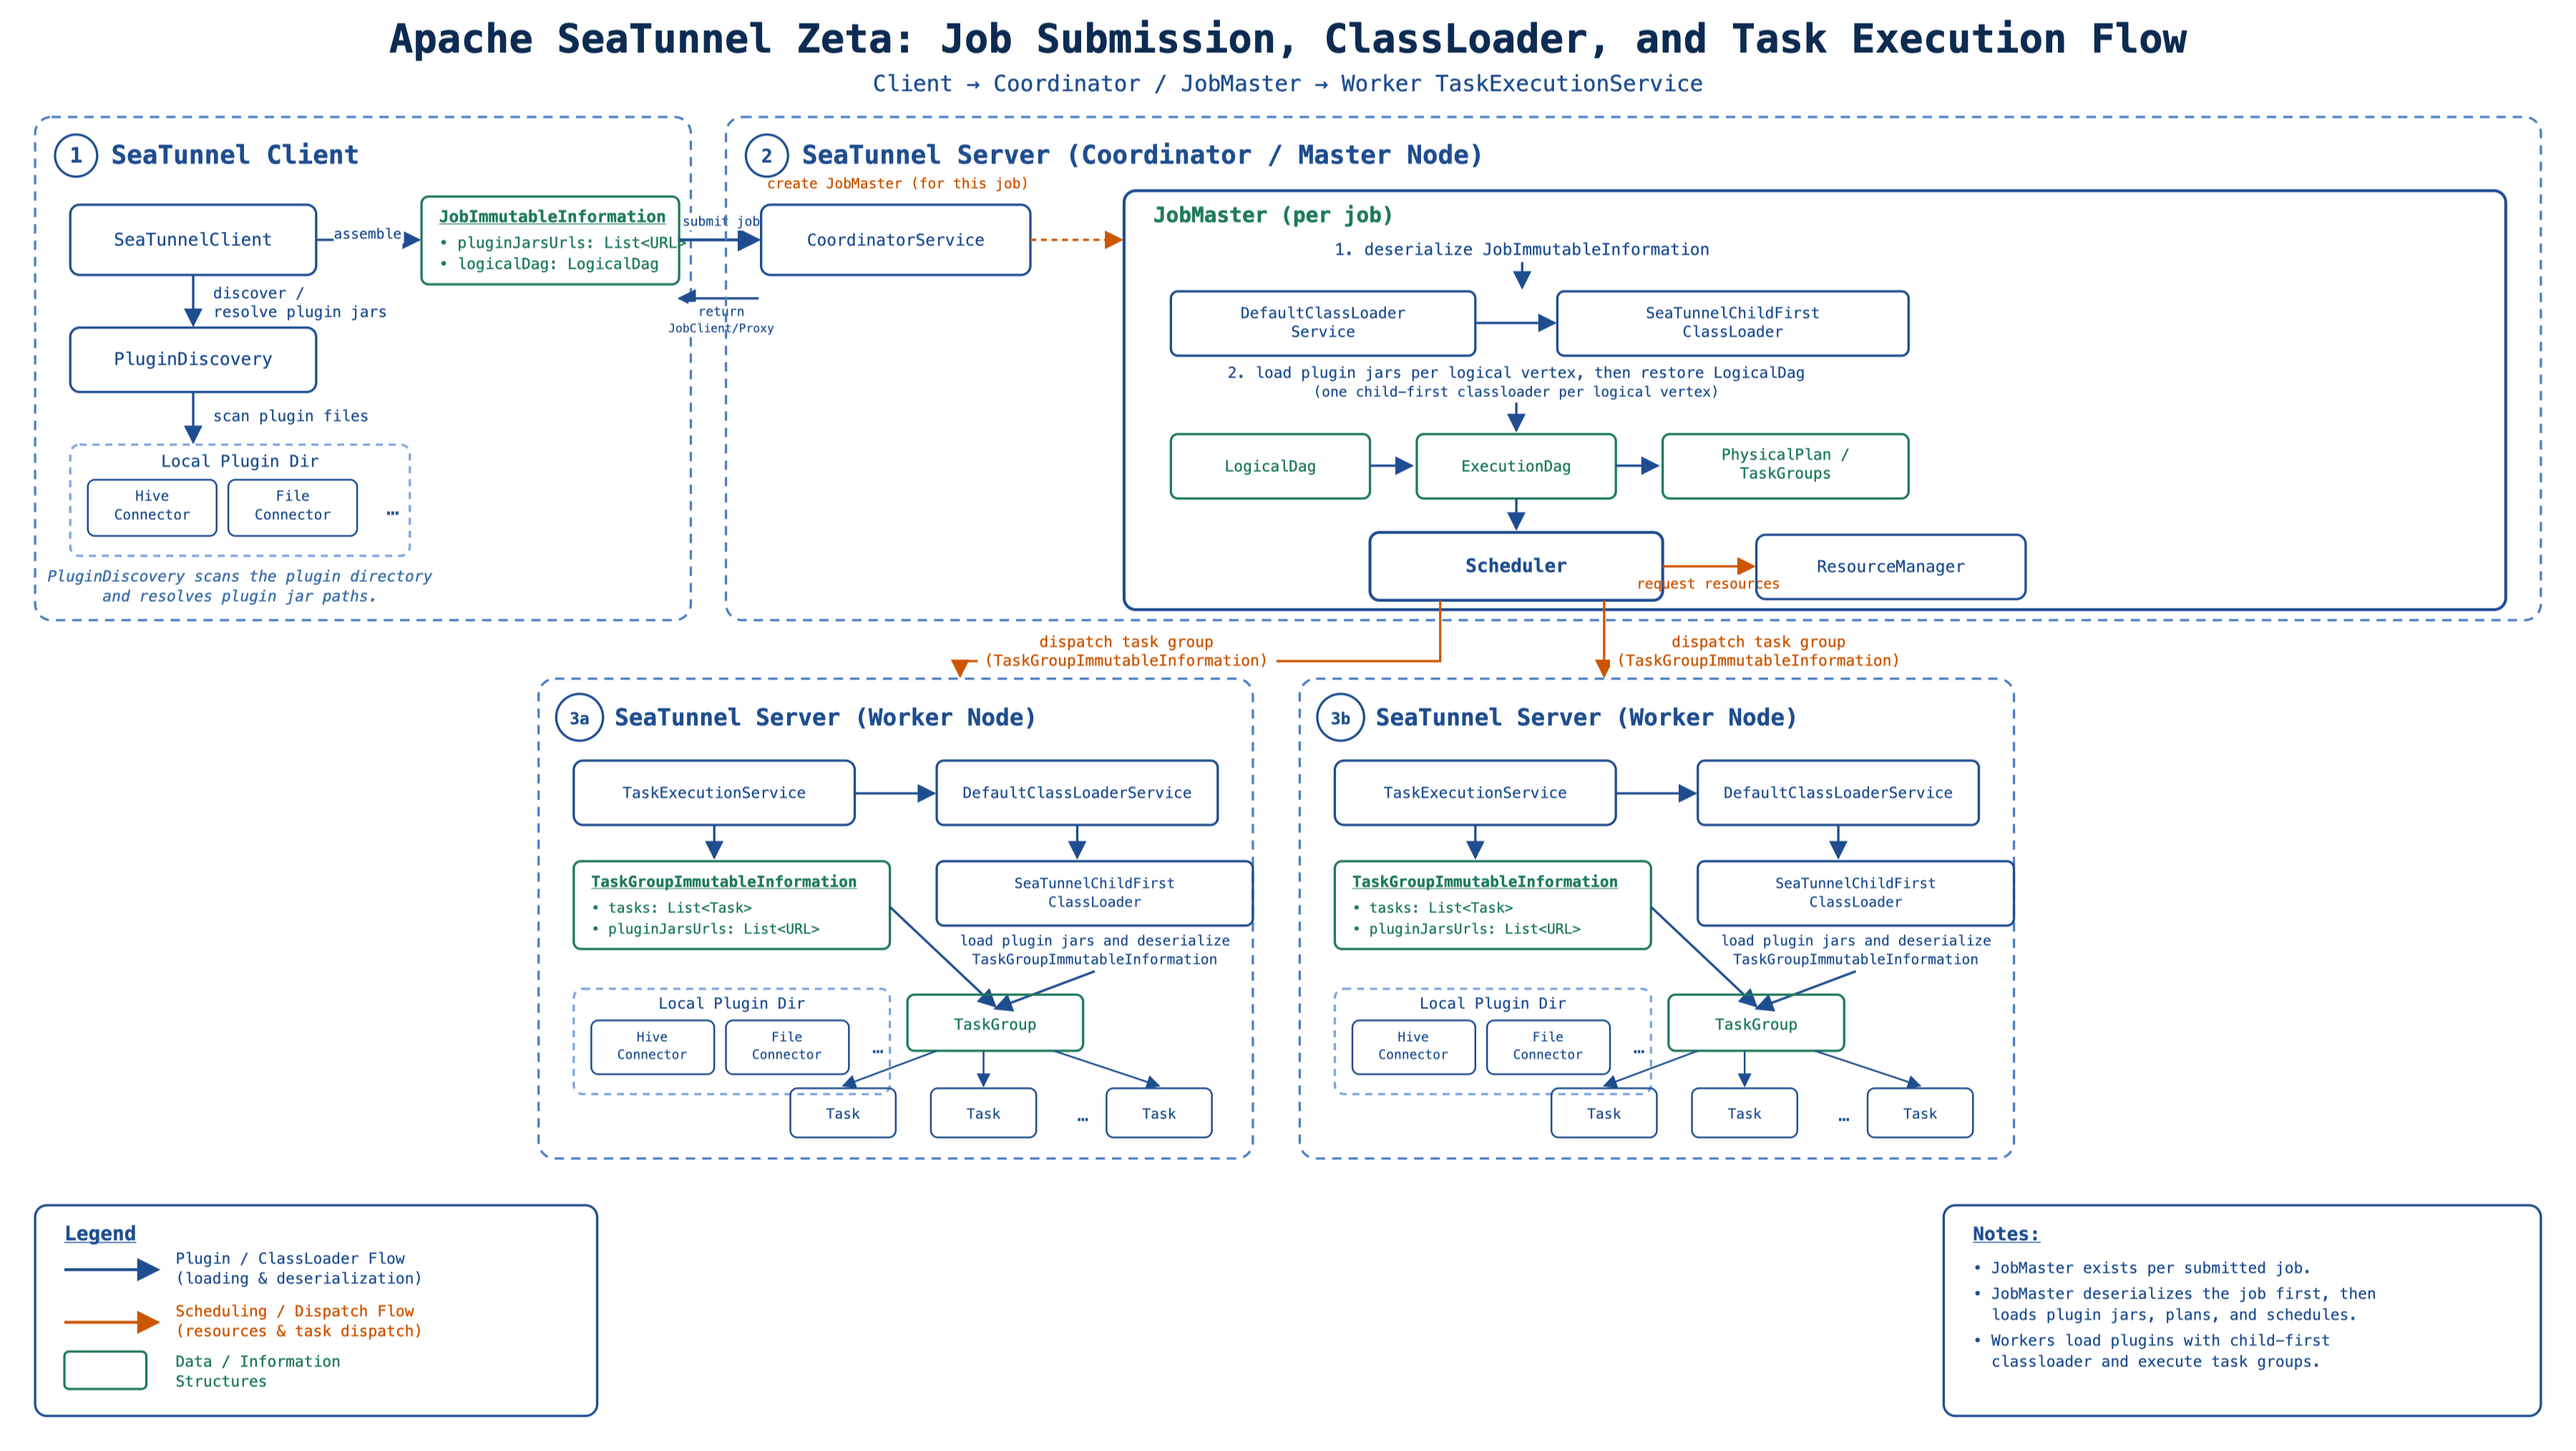
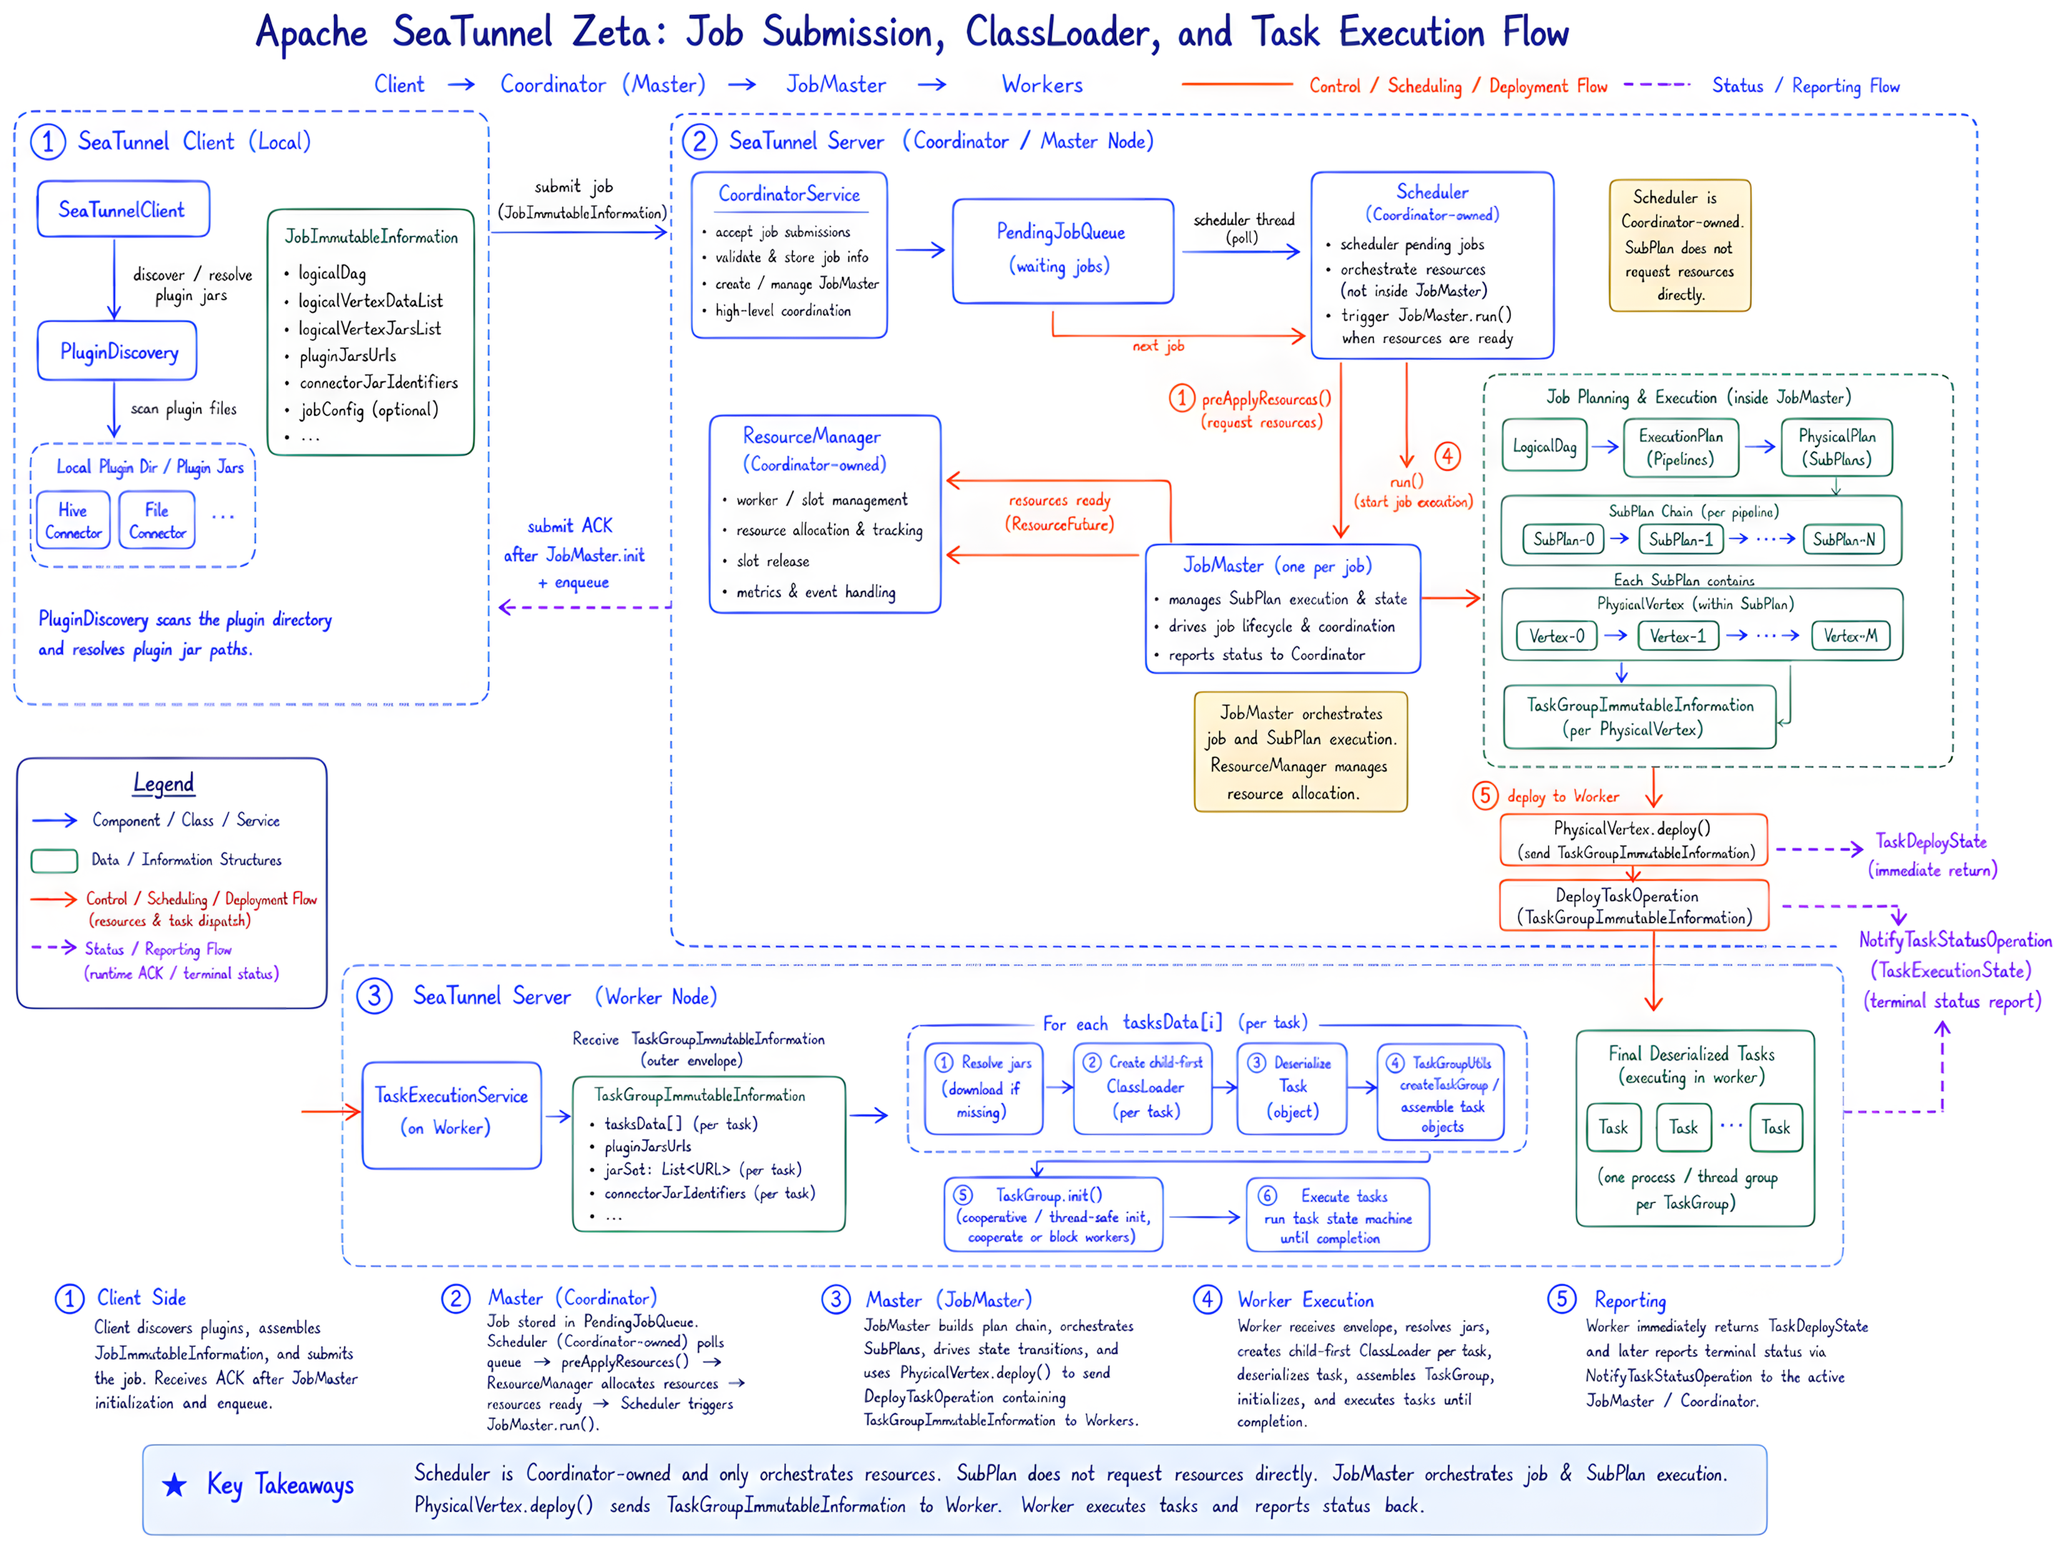
[Docs] Refresh Zeta runtime flow diagram

diff --git a/docs/en/architecture/engine/engine-architecture.md b/docs/en/architecture/engine/engine-architecture.md
@@ -80,12 +80,13 @@ flowchart TD
 
 ![Zeta job submission, classloader, and task execution flow](../../../images/zeta_job_submission_classloader_task_execution_flow.png)
 
-This flow fits the engine architecture section because it connects the control plane and runtime plane in one view:
+This flow fits the engine architecture section because it connects client assembly, coordinator-owned scheduling, worker-side execution, and status reporting in one view:
 
-1. The client resolves plugin jars locally and packages `pluginJarsUrls` together with the `LogicalDag` into `JobImmutableInformation`.
-2. `CoordinatorService` accepts the submission and creates one `JobMaster` for the job; `JobMaster` first deserializes the submitted immutable job information, then uses the master-side classloader service to load plugin jars for each logical vertex and restores the logical DAG.
-3. `JobMaster` turns the logical plan into an execution graph and physical task groups, requests resources, and dispatches `TaskGroupImmutableInformation` to workers.
-4. Each worker uses its own child-first classloader to load the same plugin jars, deserialize the task-group payload, and execute the `TaskGroup` inside `TaskExecutionService`.
+1. The client resolves plugin jars locally and submits `JobImmutableInformation`, which carries the logical DAG together with plugin jar URLs and connector jar identifiers.
+2. `CoordinatorService` accepts the submission, records the pending job, and returns the submit acknowledgement after `JobMaster.init()` and queueing are complete.
+3. The coordinator-owned `Scheduler` polls `PendingJobQueue`, requests resources through `preApplyResources()`, and triggers `JobMaster.run()` when the `ResourceFuture` is ready.
+4. `JobMaster` expands the logical job into the pipeline-oriented `ExecutionPlan` and `PhysicalPlan`, builds `TaskGroupImmutableInformation`, and deploys it to workers through `PhysicalVertex.deploy()` and `DeployTaskOperation`.
+5. Each worker resolves missing jars, creates child-first classloaders per task, deserializes and initializes the task group inside `TaskExecutionService`, executes the tasks, and reports deploy plus terminal status back to `JobMaster` and `CoordinatorService`.
 
 ### 2.3 Core Components
 

diff --git a/docs/zh/architecture/engine/engine-architecture.md b/docs/zh/architecture/engine/engine-architecture.md
@@ -82,12 +82,13 @@ flowchart TB
 
 ![Zeta 作业提交、类加载与任务执行流程](../../../images/zeta_job_submission_classloader_task_execution_flow.png)
 
-这张图更适合放在引擎架构章节，因为它把控制面与运行时执行面串成了一条完整链路：
+这张图更适合放在引擎架构章节，因为它把客户端装配、Coordinator 侧调度、Worker 执行与状态回报串成了一条完整链路：
 
-1. 客户端先在本地解析插件目录，把 `pluginJarsUrls` 与 `LogicalDag` 一起封装进 `JobImmutableInformation`。
-2. `CoordinatorService` 接收提交请求后，会为这个作业创建一个 `JobMaster`；`JobMaster` 会先反序列化提交上来的作业不可变信息，再通过 Master 侧的类加载服务为每个逻辑节点加载插件 jar，并据此还原逻辑执行图（LogicalDag）。
-3. `JobMaster` 把逻辑计划展开成执行图和物理任务组，随后申请资源，并向 Worker 下发 `TaskGroupImmutableInformation`。
-4. 每个 Worker 再用自己的 child-first 类加载器加载同一批插件 jar，反序列化任务组载荷，并在 `TaskExecutionService` 中执行对应的 `TaskGroup`。
+1. 客户端先在本地解析插件目录，然后提交 `JobImmutableInformation`，其中同时包含逻辑 DAG、插件 jar URL 和连接器 jar 标识。
+2. `CoordinatorService` 接收提交请求后，会记录待调度作业，并在 `JobMaster.init()` 完成且作业入队后返回提交确认。
+3. Coordinator 持有的 `Scheduler` 会轮询 `PendingJobQueue`，通过 `preApplyResources()` 申请资源，并在 `ResourceFuture` 就绪后触发 `JobMaster.run()`。
+4. `JobMaster` 把逻辑作业展开为面向流水线的 `ExecutionPlan` 和 `PhysicalPlan`，构造 `TaskGroupImmutableInformation`，再通过 `PhysicalVertex.deploy()` 和 `DeployTaskOperation` 把任务下发到 Worker。
+5. 每个 Worker 会补齐缺失 jar、为每个任务创建 child-first 类加载器，在 `TaskExecutionService` 中反序列化并初始化任务组，执行任务，并把部署状态与最终状态回报给 `JobMaster` 和 `CoordinatorService`。
 
 ### 2.3 核心组件
 
